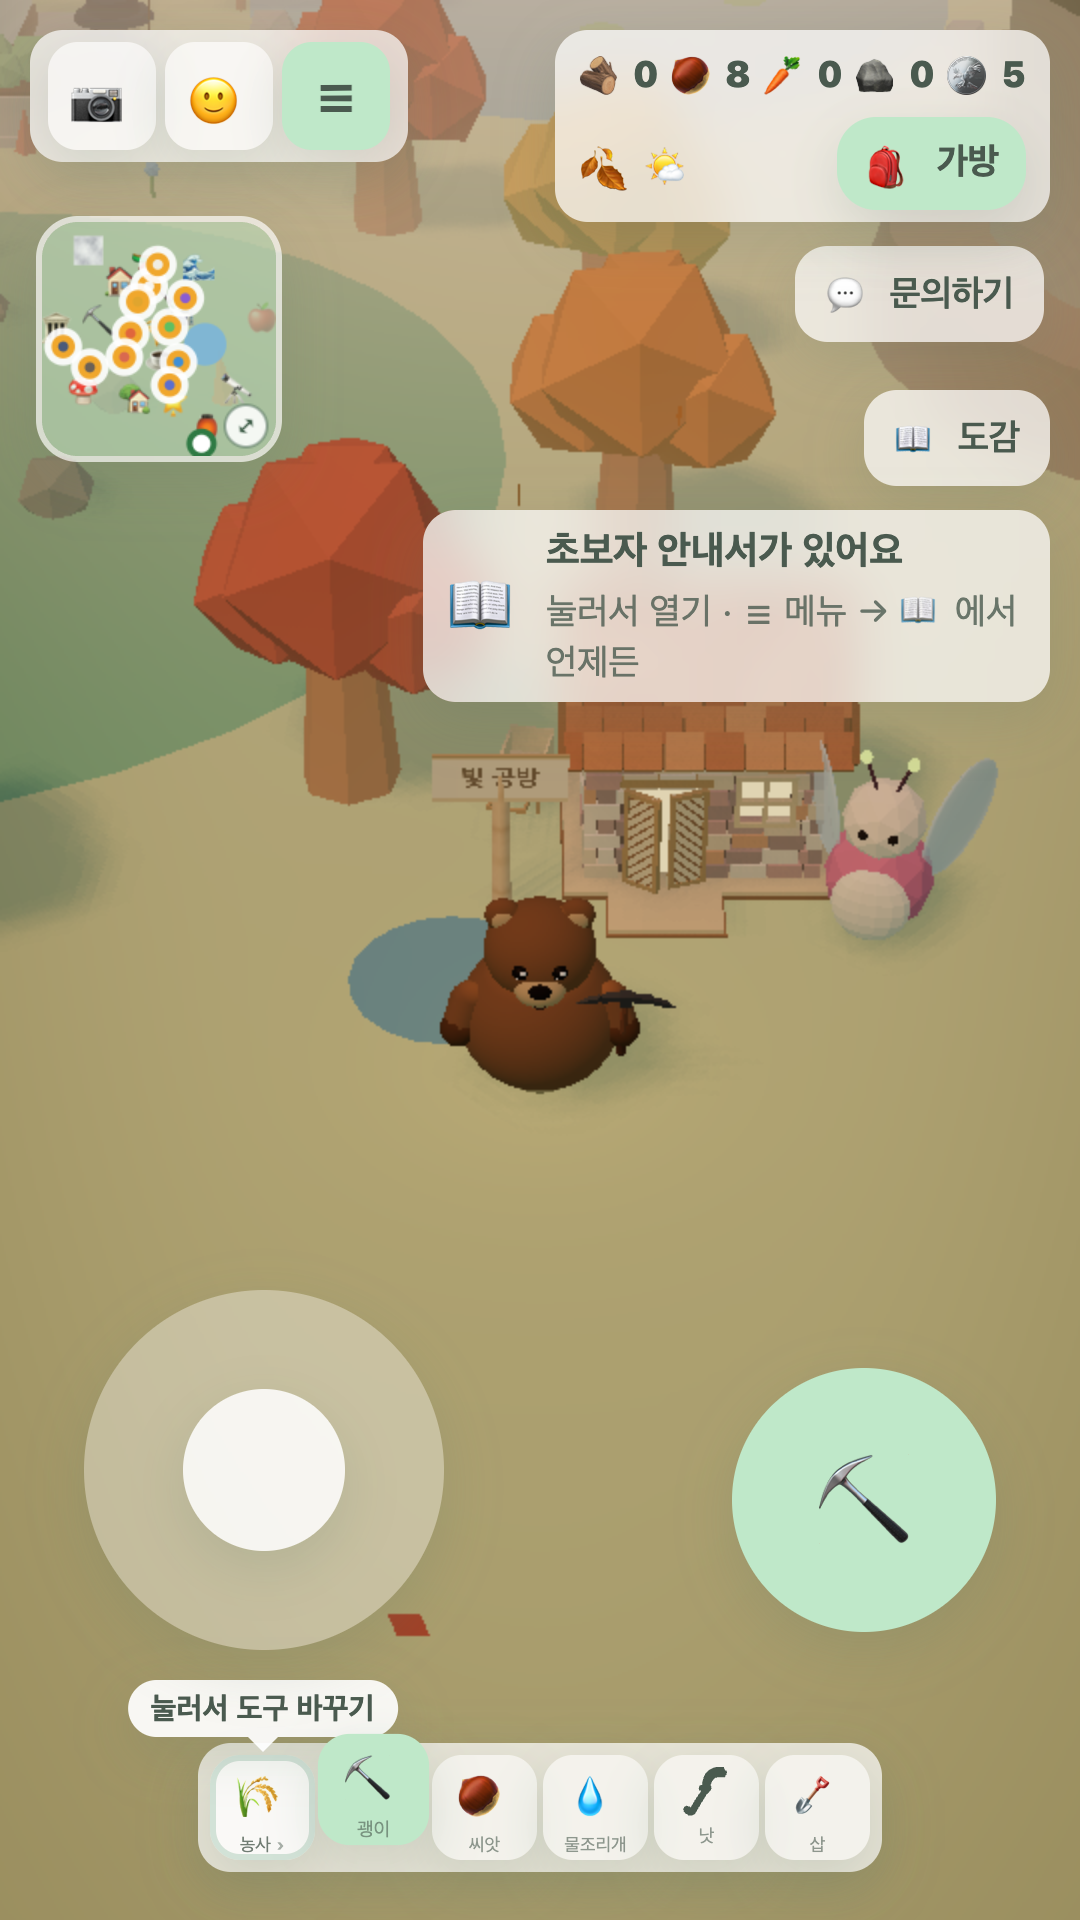
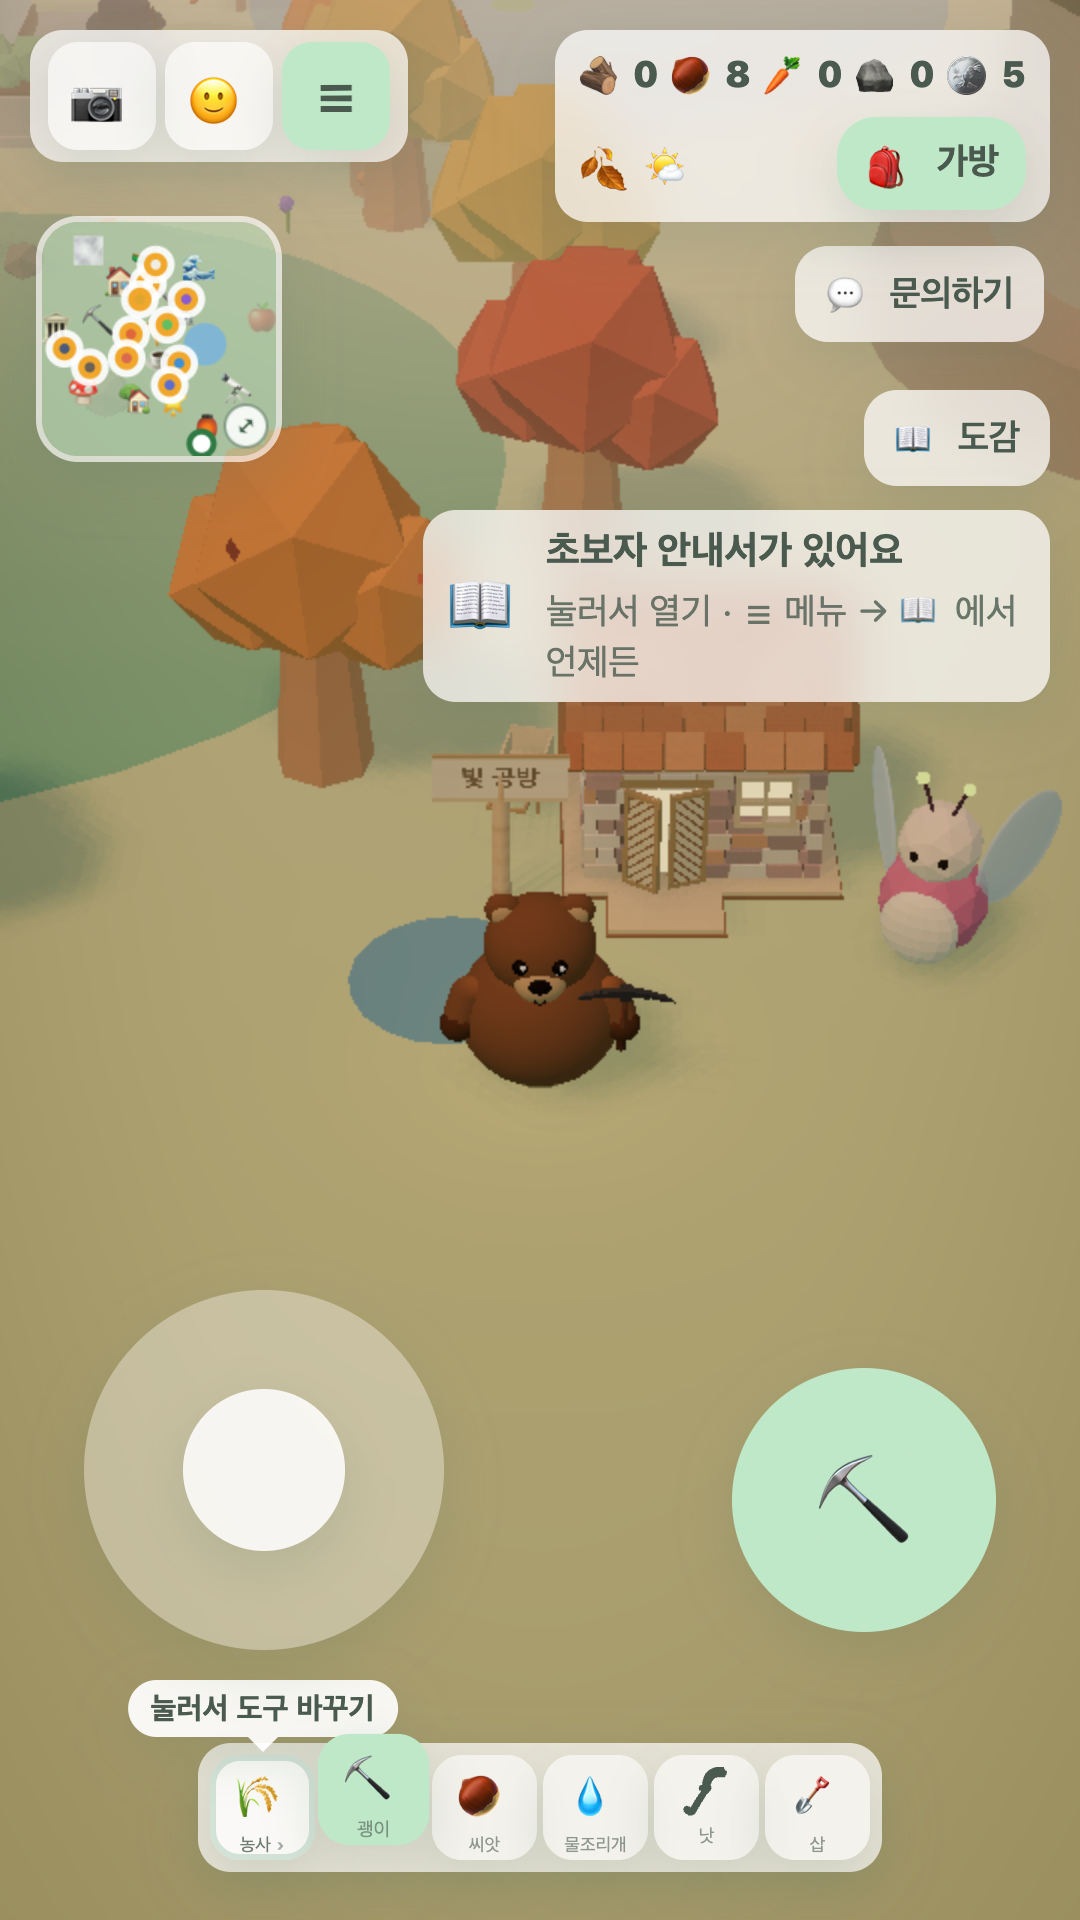
fix: keep the light keeper's wings out of the workshop wall and eaves

diff --git a/js/spaces/light-workshop.js b/js/spaces/light-workshop.js
@@ -49,7 +49,7 @@ export function buildLightWorkshop() {
   const hut = new THREE.Mesh(mergeGeos(solid), vtxMat());
   hut.castShadow = true; hut.receiveShadow = true; g.add(hut);
   g.add(new THREE.Mesh(mergeGeos(glow), new THREE.MeshBasicMaterial({ color: 0xffe2a0 })));
-  const k = buildKeeper(); k.position.set(1.55, 0, 1.45); k.rotation.y = -0.3;   // 창 오른쪽 — 문을 가리지 않는다
+  const k = buildKeeper(); k.position.set(2, 0, 1.8); k.rotation.y = -0.45;   // 창 오른쪽 앞 — 왼쪽 날개(폭 ~0.5)가 벽·처마(x≤1.32, z≤1.17)에 박히지 않게(1.55,1.45 에선 관통)
   const tag = makeNameTag(KEEPER); tag.position.y = 2.15; k.add(tag);   // 더듬이 끝(1.8) 위
   g.add(k);
   g.add(makeSignpost('🏮 빛 공방', -1.85, 1.2));   // 왼쪽 앞 모서리(연못 옆) — 창·열린 문짝을 가리지 않는다

diff --git a/dev/active/light-workshop/light-workshop-context.md b/dev/active/light-workshop/light-workshop-context.md
@@ -49,3 +49,4 @@
 - 📍 같은 날 한 번 더 남쪽으로: (17, 21.6) → **(17.6, 25.5)** 천문대 계단 왼쪽 빈터(사용자 "더 밑으로"). 계곡 링 나무 2그루(−18.5°·14.3°)가 4 안에 들어와 glade.js 가 비운다
 - 🗺 미니맵·전체 지도 지명 `{ ico: '🏮', name: '빛 공방', pri: 1 }` + 영어 'Light Workshop' — 🔭 천문대와 겹치지 않음(캡처 확인)
 - 📍 2026-10-09: (16.5, 32) → "조금만 더 밑으로" **(16.5, 33.5)** — 링 나무 두 그루는 여전히 남음(3.0~5.6), 걷기 경계까지 2.2 여유 · 계곡 남동쪽 나무숲 가장자리(사용자 "더더더 밑으로, 나무 쪽으로"). 계곡 링 나무는 오두막에 박히는 것(<2.8)·연못 위(LIGHT_WORKSHOP_POND.r+0.6)만 비우고 14.3°·47° 두 그루는 옆·뒤에 남겨 숲 느낌 · 마을 걷기 경계 42 안
+- 🧚 2026-10-09 주인 (1.55,1.45,−0.3) → (2,1.8,−0.45): 왼쪽 날개가 오두막 오른쪽 앞 벽·처마를 관통(사용자 지적, 계산상 457점 겹침) → 겹침 0 · 테스트가 날개 끝 x ≥ 1.42 검사
